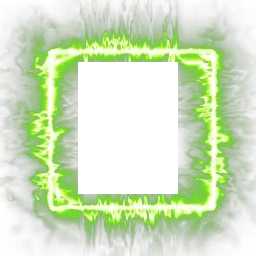
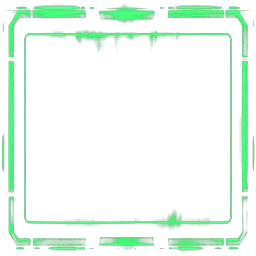
Drop fire2, and frame the photo instead of covering it
fire2 is gone. It was the dense wall with a hard ground edge, and at this scale
it read as cheap — too even, too solid, too obviously one tile looping. The
clusters alternate between fire1's fat turbulent body and fire3's thin wispy
lick, both irregular enough to bear repeating. One less sheet to ship, too.

The frame now comes from fireframebackup.jpg. fireframe.png's fire is thick
relative to its opening: squared off it ate a third of the box from every edge
and left a letterbox for the face, which is exactly what it looked like on the
phone. The backup is a thin neon line with corner ornaments and a wide clear
middle — a frame around a portrait rather than a box the portrait hides in.

Its opening carries dim smoke, so alpha takes a floor before the boost;
without it the haze survives and greys the face it is meant to frame.

Assets are down to 180 KB for all three, from 270 KB and from 6.9 MB of GIFs.

diff --git a/src/style.css b/src/style.css
@@ -2189,12 +2189,12 @@
      Every duration is different and none is a multiple of another, so the whole
      row never returns to the same arrangement twice. */
   .fire-band{ background:none; }
-  /* Three textures dealt across the seven clusters. One tile repeated is found
-     out by the eye however the phases are staggered — fire2 is a dense wall,
-     fire1 a fat turbulent body, fire3 a thin wispy lick, and mixing them is
-     what stops the row reading as one animation seven times. */
-  .fire-band i{ background-image:url('/fire-band.webp'); }
-  .fire-band.t-body i{ background-image:url('/fire-body.webp'); }
+  /* Two textures, alternating. One tile repeated is found out by the eye
+     however the phases are staggered. fire2 was the third and is gone: a dense
+     wall with a hard ground edge, it read as cheap at this scale — too even,
+     too solid, too obviously a loop. These two are irregular enough to bear
+     repeating. */
+  .fire-band i{ background-image:url('/fire-body.webp'); }
   .fire-band.t-wisp i{ background-image:url('/fire-column.webp'); }
 
   /* Anchored by their BASE, not their top. Every cluster stands on the same

diff --git a/index.html b/index.html
@@ -46,12 +46,12 @@
   <div id="arena" aria-hidden="true">
     <div class="arena-stage">
       <div class="fire-band s1"><i></i></div>
-      <div class="fire-band s2 t-body"><i></i></div>
+      <div class="fire-band s2 t-wisp"><i></i></div>
       <div class="fire-band s3"><i></i></div>
       <div class="fire-band s4 t-wisp"><i></i></div>
-      <div class="fire-band s5 t-body"><i></i></div>
-      <div class="fire-band s6"><i></i></div>
-      <div class="fire-band s7 t-wisp"><i></i></div>
+      <div class="fire-band s5"><i></i></div>
+      <div class="fire-band s6 t-wisp"><i></i></div>
+      <div class="fire-band s7"><i></i></div>
       <div class="fire-brazier b1"><i></i></div>
       <div class="fire-brazier b2"><i></i></div>
       <div class="fire-brazier b3"><i></i></div>

diff --git a/tools/fire-sheets.py b/tools/fire-sheets.py
@@ -28,14 +28,16 @@ ROOT = Path(__file__).resolve().parent.parent
 OUT = ROOT / 'public'
 
 # name: (source, frames to keep, height of one frame in the sheet)
-# Three textures, not one. A wall of fire made from a single tile repeats no
-# matter how the phases are staggered — the eye finds the tile. fire1 is a fat
-# turbulent body, fire2 a dense wall with a ground edge, fire3 a wispy column;
-# dealt across the clusters they stop reading as one animation seven times.
+# Two textures, alternating. A wall made from a single tile repeats no matter
+# how the phases are staggered — the eye finds the tile — so the clusters take
+# turns between a fat turbulent body and a thin wispy lick.
+#
+# fire2 is not used. It is a dense wall with a hard ground edge, and at this
+# scale it read as cheap: too even, too solid, too obviously a loop. fire1 and
+# fire3 are both irregular enough to stand being repeated.
 JOBS = {
-    'fire-band':   ('fire2.gif', 24, 176),   # dense wall, the bulk of the fire
-    'fire-column': ('fire3.gif', 24, 320),   # wispy, for the tall thin licks
     'fire-body':   ('fire1.gif', 24, 260),   # fat and turbulent, the deep bases
+    'fire-column': ('fire3.gif', 24, 320),   # wispy, the tall thin licks
 }
 
 
@@ -91,25 +93,36 @@ def build_frame():
     mix-blend-mode inside a clipped box is a fight with the stacking context
     nobody wins.
     """
-    im = Image.open(ROOT / 'fireframe.png').convert('RGB')
-    im = im.crop(im.convert('L').point(lambda p: 255 if p > 26 else 0).getbbox())
+    # fireframebackup.jpg, not fireframe.png. The latter's fire is thick
+    # relative to its opening — squared off it ate a third of the box from
+    # every edge and left a letterbox for the face. This one is a thin neon
+    # line with corner ornaments and a wide clear middle, which is what a
+    # frame around a portrait wants to be.
+    im = Image.open(ROOT / 'fireframebackup.jpg').convert('RGB')
+    im = im.crop(im.convert('L').point(lambda p: 255 if p > 34 else 0).getbbox())
     W, H = im.size
-    S, cw, ch = 256, 78, 62
+    S, dc = 256, 72                      # dc must stay under S/2 or the edges invert
+    scw, sch = int(W * 0.20), int(H * 0.32)
     out = Image.new('RGB', (S, S), (0, 0, 0))
 
     def put(src, dst):
-        out.paste(im.crop(src).resize((dst[2] - dst[0], dst[3] - dst[1]), Image.LANCZOS), dst[:2])
+        w, h = dst[2] - dst[0], dst[3] - dst[1]
+        if w > 0 and h > 0:
+            out.paste(im.crop(src).resize((w, h), Image.LANCZOS), dst[:2])
 
-    put((0, 0, cw, ch),           (0, 0, cw, ch))
-    put((W - cw, 0, W, ch),       (S - cw, 0, S, ch))
-    put((0, H - ch, cw, H),       (0, S - ch, cw, S))
-    put((W - cw, H - ch, W, H),   (S - cw, S - ch, S, S))
-    put((cw, 0, W - cw, ch),      (cw, 0, S - cw, ch))
-    put((cw, H - ch, W - cw, H),  (cw, S - ch, S - cw, S))
-    put((0, ch, cw, H - ch),      (0, ch, cw, S - ch))
-    put((W - cw, ch, W, H - ch),  (S - cw, ch, S, S - ch))
+    put((0, 0, scw, sch),             (0, 0, dc, dc))
+    put((W - scw, 0, W, sch),         (S - dc, 0, S, dc))
+    put((0, H - sch, scw, H),         (0, S - dc, dc, S))
+    put((W - scw, H - sch, W, H),     (S - dc, S - dc, S, S))
+    put((scw, 0, W - scw, sch),       (dc, 0, S - dc, dc))
+    put((scw, H - sch, W - scw, H),   (dc, S - dc, S - dc, S))
+    put((0, sch, scw, H - sch),       (0, dc, dc, S - dc))
+    put((W - scw, sch, W, H - sch),   (S - dc, dc, S, S - dc))
 
-    out.putalpha(out.convert('L').point(lambda p: min(255, int(p * 1.45))))
+    # A floor before the boost: this source has dim smoke inside its opening,
+    # and without the floor that haze survives as alpha and greys the face.
+    out.putalpha(out.convert('L').point(
+        lambda p: 0 if p < 46 else min(255, int((p - 46) * 1.9))))
     path = OUT / 'fire-frame.webp'
     out.save(path, 'WEBP', quality=84, method=6)
     print(f'{path.name}: {S}x{S} square, {path.stat().st_size / 1024:.0f} KB')
